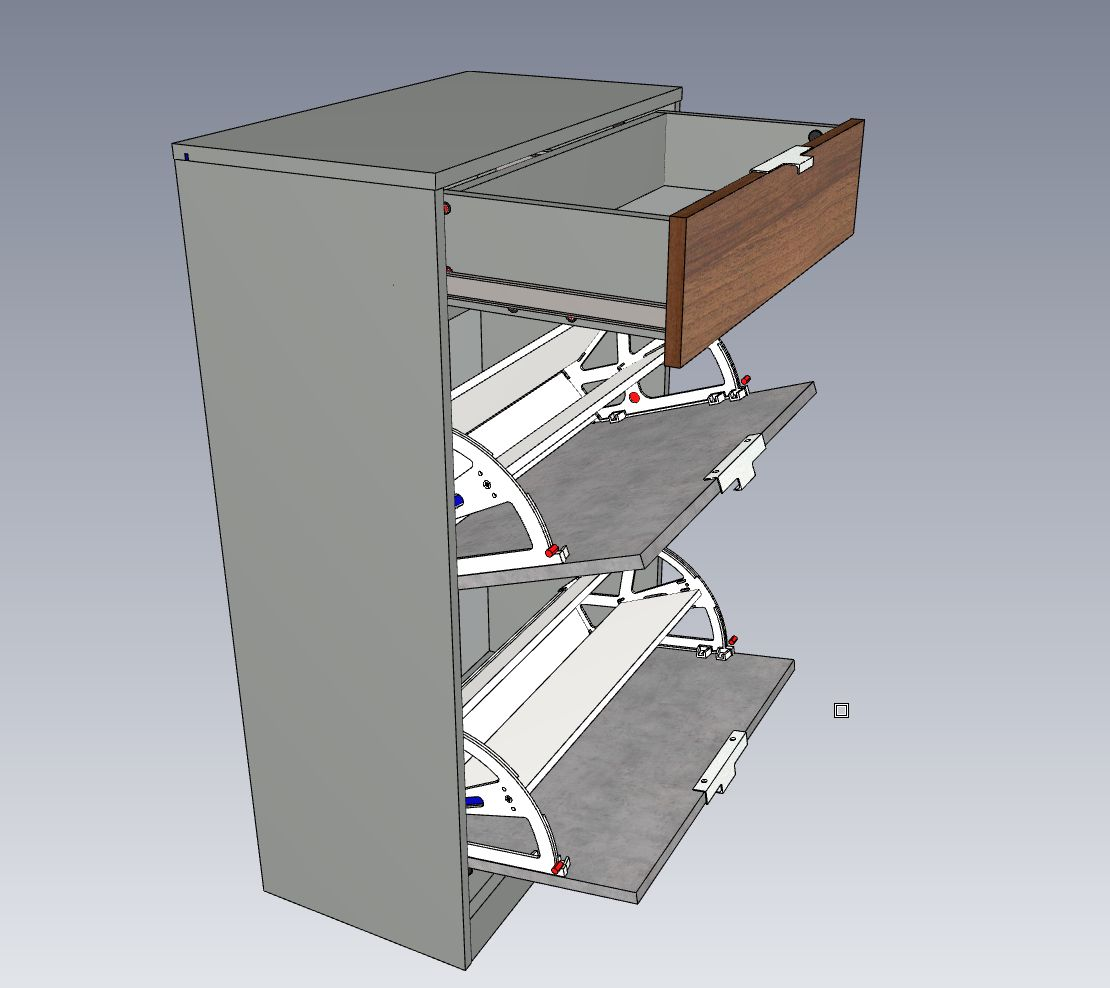
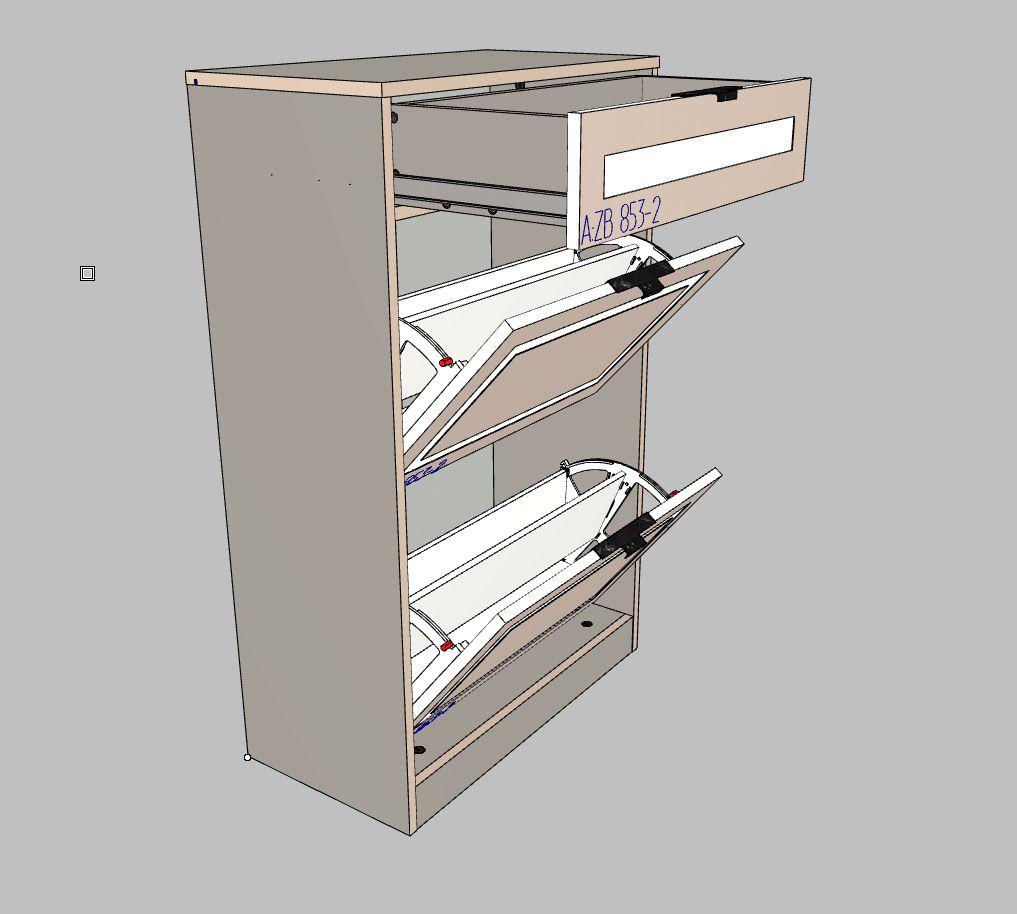
update: protoid 430 параметры третьего ящика

diff --git a/001_ParamCatalog.md b/001_ParamCatalog.md
@@ -526,13 +526,16 @@
 {
     'proto_id': 430,
     'colorcmmater': 22378,  # param_randomize(440)               Цвет корпуса 
-    'colorfsmat1': 22393,  # param_randomize(440)               Цвет фасада Прайм 
-    'colorfsmat2': 22393,  # param_randomize(440)               Цвет фасада Прайм 
+    'colorfsmat1': 22393,  # param_randomize(440)               Цвет фасада нижнего ящика только для Прайм 
+    'colorfsmat2': 22393,  # param_randomize(440)               Цвет фасада среднего ящика только для Прайм 
+    'colorfsmat3': 22393,  # param_randomize(440)               Цвет фасада верхнего ящика только для Прайм 
     'd': 320,  # random.choice(range(300, 800))     Глубина 
-    'decofsmatc1': 0,  # param_randomize(454)               MDF Отделка фасада 
-    'decofsmatc2': 0,  # param_randomize(454)               MDF Отделка фасада 
-    'fasrtype1': 10841,  # param_randomize(446)               Рисунок фасада 
-    'fasrtype2': 10841,  # param_randomize(446)               Рисунок фасада 
+    'decofsmatc1': 0,  # param_randomize(454)               MDF Отделка фасада нижнего ящика
+    'decofsmatc2': 0,  # param_randomize(454)               MDF Отделка фасада сред
+    'decofsmatc3': 0,  # param_randomize(454)               MDF Отделка фасада верхнего ящика
+    'fasrtype1': 10841,  # param_randomize(446)               Рисунок фасада нижнего ящика
+    'fasrtype2': 10841,  # param_randomize(446)               Рисунок фасада среднего ящика
+    'fasrtype3': 10841,  # param_randomize(446)               Рисунок фасада верхнего ящика
     'h': 808,  # random.choice(range(940, 1200))     Высота 
 
     'hantype': 24459,  # param_randomize(23)                Тип ручки 
